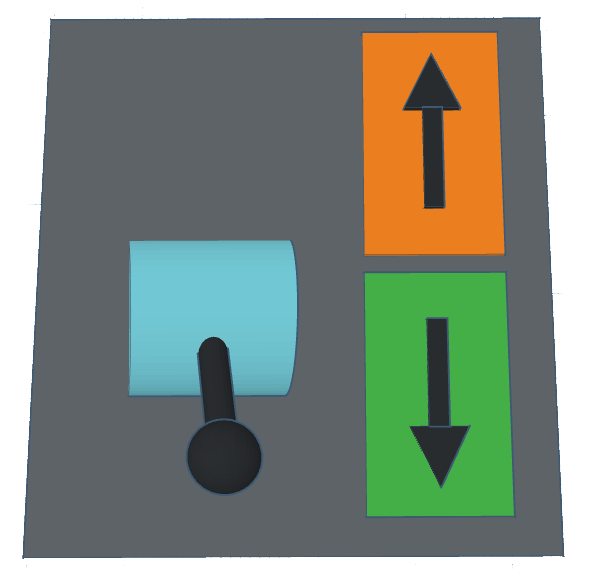
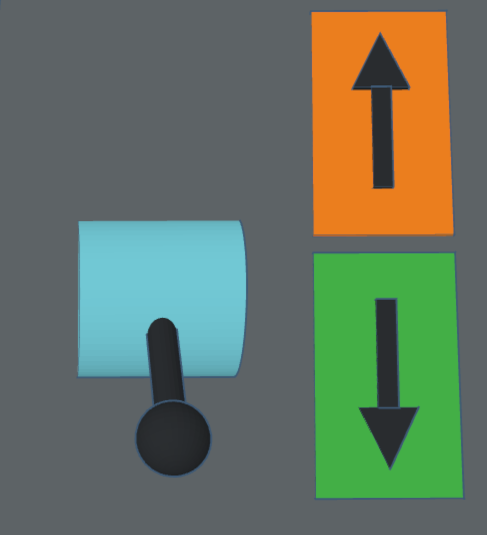
User interface improvements

diff --git a/iot-train/public/index.html b/iot-train/public/index.html
@@ -25,34 +25,31 @@
     </div>
 
     <div class="speedcontrol">
-
-    <img id="speed0" src="public/speedcontrol.png" width="503" height="579" usemap="#speed-map" alt="" />
+    <img id="speed0" src="public/speedcontrol.png" width="469" height="535" usemap="#speed-map" alt="" />
         <map name="speed-map">
-            <area shape="rect" coords="245,100, 390,245" href="#" title="Faster" alt="faster0" />
-            <area shape="rect" coords="245,280, 390,430" href="#" title="Slower" alt="slower0" />
+            <area shape="rect" coords="180,40, 430,250" href="#" title="Faster" alt="faster0" />
+            <area shape="rect" coords="180,255, 430,460" href="#" title="Slower" alt="slower0" />
         </map>
-
     </div>
-
 
 
     <div class="reverser">
-        <img id="reverser0" src="public/reverser-fwd.png" width="589" height="579" usemap="#reverser-map" alt="" />
+        <img id="reverser0" src="public/reverser-fwd.png" width="487" height="535" usemap="#reverser-map" alt="" />
         <map name="reverser-map">
-            <area shape="poly" coords="360,30, 500,30, 505,260, 360,260" href="#" title="Forward" alt="forward0" />
-            <area shape="poly" coords="360,261, 500,261, 520,520, 360,520" href="#" title="Reverse" alt="reverse0" />
-            <area shape="rect" coords="135,70, 260,210" href="#" title="Forward" alt="forward0" />
-            <area shape="rect" coords="135,335, 260,465" href="#" title="Reverse" alt="reverse0" />
-            <area shape="rect" coords="135,220, 260,325" href="#" title="Stop" alt="stop0" />
+            <area shape="rect" coords="250,15, 475,240" href="#" title="Forward" alt="forward0" />
+            <area shape="rect" coords="250,245, 475,520" href="#" title="Reverse" alt="reverse0" />
         </map>
     </div>
 
 
+    <div class="emergency">
+        <img class="emergencystop" src="public/emergencystop.png" width="300" height="300" />
+    </div>
 
-
-    <div class="emergency">Stop</div>
-
-    <div class="autostop">Auto</div>
+    <div class="autostop">
+        <!-- Todo add automation controls here -->
+        <!-- Auto -->
+    </div>
 
 </div><!--end trainconsole-->
 

diff --git a/iot-train/public/trainctrl.css b/iot-train/public/trainctrl.css
@@ -5,10 +5,11 @@ h1 {
 
 .trainconsole {
     display: grid;
-    grid-template-columns: 1fr 1fr 1fr;
-    grid-template-rows: 600px 100px;
+    grid-template-columns: 410px 475px 1fr;
+    grid-template-rows: 550px 350px;
     grid-gap: 2px;
-		border-radius: 10px;
+	border-radius: 10px;
+	background-color: #5d6366;
 }
 
 
@@ -17,8 +18,10 @@ h1 {
 	}
 
 .speed {
+    margin-top: 20px;
     grid-column: 1 / 2;
     grid-row: 1 / 2;
+    text-align: center;
 }
 
 .speedcontrol {
@@ -35,6 +38,7 @@ h1 {
 .emergency {
     grid-column: 1 / 2;
     grid-row: 2 / 3;
+    text-align: center;
 }
 
 .autostop {
